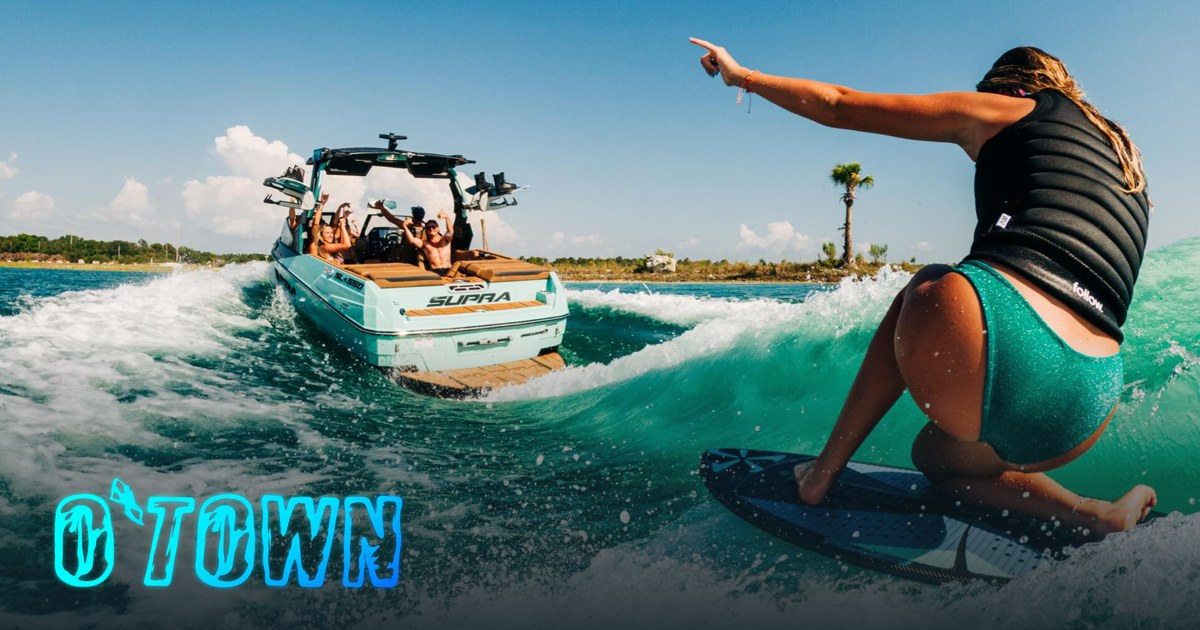
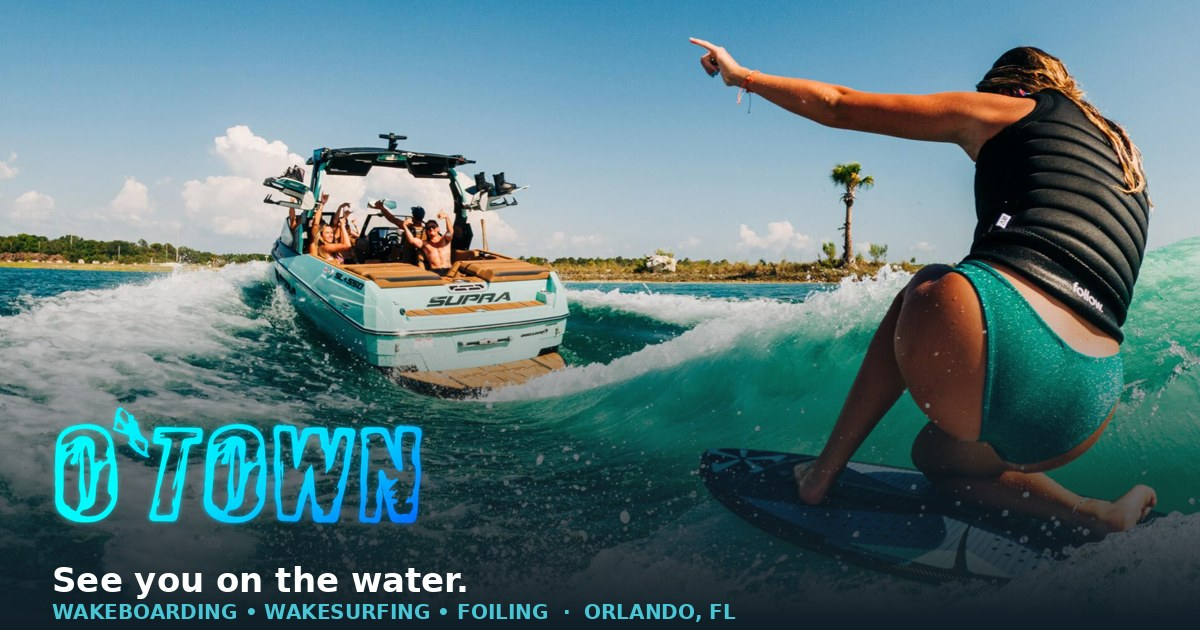
Card: Share button opens native share sheet directly, QR/copy fallback, branded OG image with tagline
Claude-Session: https://claude.ai/code/session_019NFFDagqXTWJnptVQoaJQR

diff --git a/components/card/CardShare.tsx b/components/card/CardShare.tsx
@@ -10,6 +10,18 @@ export default function CardShare({ url, title, text, qrSvg }: Props) {
   useEffect(() => { setCanShare(typeof navigator !== "undefined" && typeof navigator.share === "function"); }, []);
 
   const open = () => { setStatus(""); ref.current?.showModal(); };
+  // Direct user tap -> native share sheet when available; otherwise the dialog with Copy Link + QR.
+  const onShare = async () => {
+    if (typeof navigator !== "undefined" && typeof navigator.share === "function") {
+      try {
+        await navigator.share({ title, text, url });
+        return;
+      } catch (e) {
+        if ((e as DOMException)?.name === "AbortError") return; // user closed the sheet
+      }
+    }
+    open();
+  };
   const close = () => ref.current?.close();
 
   const copy = async () => {
@@ -26,10 +38,13 @@ export default function CardShare({ url, title, text, qrSvg }: Props) {
 
   return (
     <>
-      <button type="button" className="cd-share" onClick={open} aria-haspopup="dialog">
+      <div className="cd-sharerow">
+      <button type="button" className="cd-share" onClick={onShare}>
         <svg viewBox="0 0 24 24" width="18" height="18" aria-hidden><path d="M4 4h6v6H4zM14 4h6v6h-6zM4 14h6v6H4zM14 14h2v2h-2zM18 14h2v2h-2zM14 18h2v2h-2zM18 18h2v2h-2z" fill="none" stroke="currentColor" strokeWidth="1.8" /></svg>
         Share O’Town
       </button>
+      {canShare && <button type="button" className="cd-share cd-share--qr" onClick={open} aria-haspopup="dialog">QR code</button>}
+      </div>
       <dialog ref={ref} className="cd-sheet" aria-labelledby="cd-sheet-title" onClick={(e) => { if (e.target === ref.current) close(); }}>
         <div className="cd-sheet__body">
           <button type="button" className="cd-sheet__x" onClick={close} aria-label="Close share dialog">

diff --git a/app/card/card.css b/app/card/card.css
@@ -63,3 +63,7 @@ body:has(.cd-root) main { padding: 0 !important; }
 @keyframes cd-rise { from { opacity: 0; transform: translateY(8px) } to { opacity: 1; transform: none } }
 @keyframes cd-sheet { from { opacity: 0; transform: translateY(16px) } to { opacity: 1; transform: none } }
 @media (prefers-reduced-motion: reduce) { .cd-root *, .cd-sheet, .cd-sheet * { animation: none !important; transition: none !important; } }
+
+.cd-sharerow { display: flex; justify-content: center; gap: 8px; margin-top: 18px; }
+.cd-sharerow .cd-share { margin: 0; }
+.cd-share--qr { color: var(--cd-mut); }

diff --git a/content/card.ts b/content/card.ts
@@ -31,7 +31,7 @@ export const card = {
   maps: contact.directions,
   cardUrl: `${SITE}/card`,
   site: SITE,
-  share: { title: "O'Town Watersports", text: "Wakeboarding, wakesurfing & foiling in Orlando. See you on the water!" },
+  share: { title: "O'Town Watersports", text: "See you on the water! Wakeboarding, wakesurfing & foiling in Orlando." },
   /** Wallet is OFF until real Apple credentials exist as server secrets and a signed endpoint is deployed. See docs/WALLET.md */
   walletEnabled: false,
   walletPassUrl: "/api/wallet/pass",
